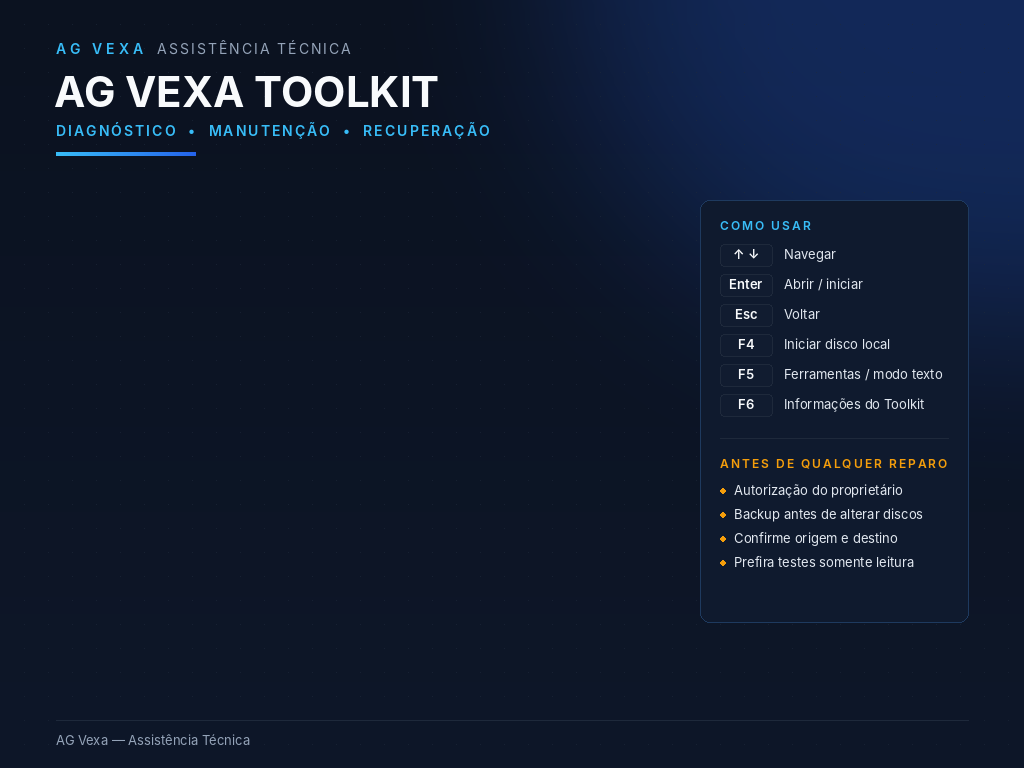
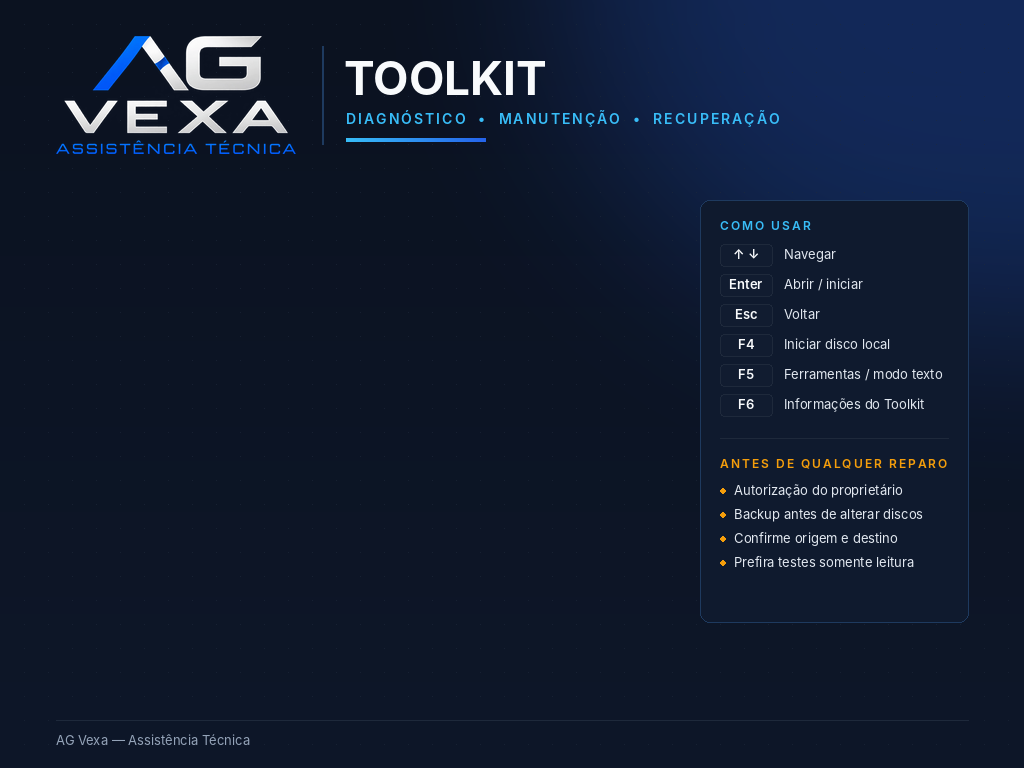
Integra a logomarca oficial da AG Vexa
- branding/logo/agvexa-logo.png: logo oficial fornecida pelo proprietário
  (PNG com fundo transparente, recortada)
- Fundo do tema do boot e papéis de parede passam a usar a logo ao lado
  do título "TOOLKIT" (gerador volta à identificação tipográfica se a
  logo não existir)
- Relatório HTML do Windows Optimizer embute a logo (arquivo local)
- Remove o placeholder da logo, a regra do .gitignore e a pendência
  correspondente na documentação

Claude-Session: https://claude.ai/code/session_01GVKuAxjS2TvyxeSkTN3wQ3

Changed region(s): [[0.0312, 0.0312, 0.5938, 0.2188], [0.6562, 0.125, 0.75, 0.1562]]

diff --git a/agvexa-toolkit/scripts/build-theme-assets.py b/agvexa-toolkit/scripts/build-theme-assets.py
@@ -36,7 +36,7 @@ VERSION = open(os.path.join(ROOT, "VERSION"), encoding="utf-8").read().strip()
 
 THEME = os.path.join(ROOT, "ventoy", "themes", "agvexa")
 THEME_LITE = os.path.join(ROOT, "ventoy", "themes", "agvexa-lite")
-OFFICIAL_LOGO = os.path.join(ROOT, "branding", "logo-placeholder", "logo-oficial.png")
+OFFICIAL_LOGO = os.path.join(ROOT, "branding", "logo", "agvexa-logo.png")
 
 # Categorias do menu: classe -> ícone. Mantido em sincronia com
 # catalog/categorias.json (verificado pelos testes).
@@ -122,29 +122,41 @@ def background(w, h, with_panel=True):
     d = ImageDraw.Draw(img)
     m = int(56 * s)
 
-    # cabeçalho: identificação tipográfica (ou logo oficial, se fornecida)
-    y = int(40 * s)
+    # cabeçalho: logo oficial (branding/logo) + nome do produto; sem a logo,
+    # usa identificação tipográfica temporária
+    sub_font = font("semibold", int(14 * s))
+    subtitle = "DIAGNÓSTICO  •  MANUTENÇÃO  •  RECUPERAÇÃO"
     if os.path.exists(OFFICIAL_LOGO):
         logo = Image.open(OFFICIAL_LOGO).convert("RGBA")
-        lh = int(28 * s)
+        lh = int(118 * s)
         logo = logo.resize((max(1, int(logo.width * lh / logo.height)), lh), Image.LANCZOS)
-        img.alpha_composite(logo, (m, y))
+        ly = int(36 * s)
+        img.alpha_composite(logo, (m, ly))
         d = ImageDraw.Draw(img)
+        dx = m + logo.width + int(26 * s)
+        d.line((dx, ly + int(10 * s), dx, ly + lh - int(10 * s)), fill=rgb(PALETTE["borda"]), width=max(1, int(2 * s)))
+        x = dx + int(24 * s)
+        y = ly + int(14 * s)
+        d.text((x - int(2 * s), y), "TOOLKIT", font=font("bold", int(46 * s)), fill=rgb(PALETTE["texto_principal"]))
+        y += int(60 * s)
+        spaced(d, (x, y), subtitle, sub_font, rgb(PALETTE["azul_destaque"]), int(2 * s))
+        y += int(28 * s)
     else:
+        x = m
+        y = int(40 * s)
         spaced(d, (m, y), "AG VEXA", font("semibold", int(14 * s)), rgb(PALETTE["azul_destaque"]), int(4 * s))
         spaced(d, (m + text_width(d, "AG VEXA", font("semibold", int(14 * s)), int(4 * s)) + int(14 * s), y),
                "ASSISTÊNCIA TÉCNICA", font("regular", int(14 * s)), rgb(PALETTE["texto_secundario"]), int(2 * s))
-    y += int(26 * s)
-    d.text((m - int(2 * s), y), "AG VEXA TOOLKIT", font=font("bold", int(42 * s)), fill=rgb(PALETTE["texto_principal"]))
-    y += int(56 * s)
-    spaced(d, (m, y), "DIAGNÓSTICO  •  MANUTENÇÃO  •  RECUPERAÇÃO", font("semibold", int(14 * s)),
-           rgb(PALETTE["azul_destaque"]), int(2 * s))
-    y += int(30 * s)
+        y += int(26 * s)
+        d.text((m - int(2 * s), y), "AG VEXA TOOLKIT", font=font("bold", int(42 * s)), fill=rgb(PALETTE["texto_principal"]))
+        y += int(56 * s)
+        spaced(d, (m, y), subtitle, sub_font, rgb(PALETTE["azul_destaque"]), int(2 * s))
+        y += int(30 * s)
     # filete de destaque em degradê
     for i in range(int(140 * s)):
         t = i / (140 * s)
         c = tuple(int(rgb(PALETTE["azul_destaque"])[k] * (1 - t) + rgb(PALETTE["azul_secundario"])[k] * t) for k in range(3))
-        d.line((m + i, y, m + i, y + max(2, int(3 * s))), fill=c + (255,))
+        d.line((x + i, y, x + i, y + max(2, int(3 * s))), fill=c + (255,))
 
     if with_panel:
         # painel "Como usar" à direita do menu

diff --git a/agvexa-toolkit/scripts/lib/agvexa.py b/agvexa-toolkit/scripts/lib/agvexa.py
@@ -923,7 +923,7 @@ REQUIRED_PATHS = [
     "docs/manutencao.md", "docs/relatorio-de-validacao.md", "docs/relatorio-de-seguranca.md",
     "docs/procedimentos-de-atendimento.md", "docs/licencas.md", "docs/plano-de-testes-boot.md",
     "docs/windows-optimizer.md",
-    "branding/palette.json", "branding/fontes-e-licencas.md", "branding/logo-placeholder/LEIA-ME.md",
+    "branding/palette.json", "branding/fontes-e-licencas.md", "branding/logo/LEIA-ME.md", "branding/logo/agvexa-logo.png",
     "ventoy/ventoy.json", "ventoy/ventoy_grub.cfg",
     "ventoy/themes/agvexa/theme.txt", "ventoy/themes/agvexa-lite/theme.txt",
     "catalog/categorias.json", "catalog/ferramentas.yaml", "catalog/isos-manifest.example.json",

diff --git a/agvexa-toolkit/PROGRESSO.md b/agvexa-toolkit/PROGRESSO.md
@@ -32,12 +32,11 @@ Arquivo para retomar o desenvolvimento em outra conversa. Atualize a cada fase.
 
 ## Pendências que exigem decisão do proprietário
 
-1. **Logo oficial**: fornecer arquivo (ver `branding/logo-placeholder/LEIA-ME.md`).
-2. **Instalar ferramentas de teste** no servidor (qemu-system-x86, ovmf, shellcheck, powershell) ou usar outro computador para testes de VM.
-3. **Windows 10** na mídia: incluir ou não (fim do suporte regular em 14/10/2025).
-4. **Secure Boot em clientes**: política preferida (desativar temporariamente × registrar chave do Ventoy com autorização do cliente).
-5. **Licença dos arquivos próprios** (documentação, temas, scripts).
-6. **Integração MAPOS**: se/quando (`docs/integracao-mapos-futura.md`).
+1. **Instalar ferramentas de teste** no servidor (qemu-system-x86, ovmf, shellcheck, powershell) ou usar outro computador para testes de VM.
+2. **Windows 10** na mídia: incluir ou não (fim do suporte regular em 14/10/2025).
+3. **Secure Boot em clientes**: política preferida (desativar temporariamente × registrar chave do Ventoy com autorização do cliente).
+4. **Licença dos arquivos próprios** (documentação, temas, scripts).
+5. **Integração MAPOS**: se/quando (`docs/integracao-mapos-futura.md`).
 
 ## Decisões já tomadas (não reabrir sem motivo)
 
@@ -49,3 +48,4 @@ Arquivo para retomar o desenvolvimento em outra conversa. Atualize a cada fase.
 ## Histórico
 
 - 2026-10-14 — 0.1.0-rc1: implementação inicial das Fases A–E e do Windows Optimizer.
+- 2026-10-15 — logomarca oficial integrada ao tema do boot, papéis de parede e relatório do Optimizer.

diff --git a/agvexa-toolkit/branding/fontes-e-licencas.md b/agvexa-toolkit/branding/fontes-e-licencas.md
@@ -5,6 +5,7 @@
 | Inter (Regular, SemiBold, Bold) | https://github.com/rsms/inter | SIL Open Font License 1.1 — `branding/fonts/LICENSE-Inter-OFL-1.1.txt` | textos renderizados nas imagens de fundo (PNG) |
 | DejaVu Sans Mono | https://dejavu-fonts.github.io/ | Bitstream Vera + domínio público — `branding/fonts/LICENSE-DejaVu.txt` | apenas nas pré-visualizações (`docs/previews`) |
 | Fonte do menu no boot | `unicode.pf2` distribuída com o Ventoy (GNU Unifont, "Unknown Regular 16") | licença do Ventoy/GNU Unifont | texto do menu (o toolkit não redistribui; já vem no Ventoy) |
+| Logomarca oficial AG Vexa | `branding/logo/agvexa-logo.png`, fornecida pelo proprietário | propriedade da AG Vexa | fundo do tema, papéis de parede, relatório do Optimizer |
 | Fundos, molduras, ícones | criados para este projeto por `scripts/build-theme-assets.py` | propriedade da AG Vexa (licença a definir pelo proprietário) | tema e branding |
 
 As fontes ficam versionadas em `branding/fonts/` para que as imagens possam

diff --git a/agvexa-toolkit/branding/logo/LEIA-ME.md b/agvexa-toolkit/branding/logo/LEIA-ME.md
@@ -1,0 +1,21 @@
+# Logomarca oficial da AG Vexa
+
+`agvexa-logo.png` é a logomarca oficial fornecida pelo proprietário
+(PNG RGBA com fundo transparente, recortada nas bordas, 1352×662 px).
+Versão para fundo escuro: letras claras com o "A" e a linha
+"ASSISTÊNCIA TÉCNICA" em azul.
+
+Onde é usada:
+
+| Uso | Como |
+|---|---|
+| Fundo do tema do boot (`ventoy/themes/agvexa/background.png`) | composta por `scripts/build-theme-assets.py` (altura ~118 px em 1024×768) |
+| Papéis de parede (`branding/backgrounds/`) | idem |
+| Relatório HTML do Windows Optimizer | cópia reduzida em `windows-optimizer/assets/agvexa-logo.png`, embutida no HTML |
+
+Para trocar a logo: substitua `agvexa-logo.png` (mantenha fundo transparente
+e versão clara), rode `python3 scripts/build-theme-assets.py` e `tests/run-all.sh`.
+Sem o arquivo, o gerador volta para a identificação tipográfica.
+
+A logomarca é propriedade da AG Vexa e não está coberta pelas licenças das
+fontes ou das ferramentas de terceiros.

diff --git a/agvexa-toolkit/docs/riscos-e-limitacoes.md b/agvexa-toolkit/docs/riscos-e-limitacoes.md
@@ -12,7 +12,6 @@
 | L6 | Modo texto (CLI) não mostra acentos | nomes com "ç/ã" ficam estranhos | `--ascii-menu` no staging |
 | L7 | Nenhuma ISO real foi baixada | catálogo sem SHA‑256 preenchido | processo em `ferramentas.md` |
 | L8 | Windows Optimizer não executado em Windows | nenhuma validação funcional | autoteste e Pester prontos para o laboratório |
-| L9 | Logomarca oficial ausente | identificação tipográfica temporária | `branding/logo-placeholder/LEIA-ME.md` |
 | L10 | QEMU/OVMF/pwsh/shellcheck ausentes no ambiente | testes correspondentes "Não testado" | instalar só com autorização |
 | L11 | Desenvolvimento feito em contêiner de nuvem (Ubuntu 24.04), não no servidor Ubuntu 26.04 | ambiente diferente do alvo | `scripts/preflight.sh` no servidor antes de usar |
 

diff --git a/agvexa-toolkit/CHANGELOG.md b/agvexa-toolkit/CHANGELOG.md
@@ -2,6 +2,12 @@
 
 Formato baseado em "Keep a Changelog". Versões seguem SemVer.
 
+## [Não lançado]
+
+### Adicionado
+- Logomarca oficial da AG Vexa (`branding/logo/agvexa-logo.png`) no fundo do tema do boot,
+  nos papéis de parede e no relatório HTML do Windows Optimizer.
+
 ## [0.1.0-rc1] — 2026-10-14 — candidata para homologação
 
 ### Adicionado
@@ -21,5 +27,5 @@ Formato baseado em "Keep a Changelog". Versões seguem SemVer.
   plano de testes, relatório de validação; modelos de relatório.
 
 ### Pendente
-- Testes de boot em VM e hardware físico; testes do Optimizer em Windows; logo oficial;
+- Testes de boot em VM e hardware físico; testes do Optimizer em Windows;
   download e verificação das ISOs reais; instalação no HD (Fase F).

diff --git a/agvexa-toolkit/README.md b/agvexa-toolkit/README.md
@@ -53,7 +53,7 @@ conferido entram por padrão.
 | Pasta | Conteúdo |
 |---|---|
 | `docs/` | arquitetura, instalação segura, manual do técnico, procedimentos, ferramentas, compatibilidade, riscos, manutenção, licenças, segurança, validação, Windows Optimizer |
-| `branding/` | paleta, fundos, ícones, fontes livres e licenças, local da logo oficial |
+| `branding/` | paleta, fundos, ícones, fontes livres e licenças, logomarca oficial |
 | `ventoy/` | `ventoy.json` (gerado), `ventoy_grub.cfg` (F6), temas `agvexa` e `agvexa-lite` |
 | `catalog/` | categorias do menu, catálogo de ferramentas, manifesto de ISOs (exemplo) |
 | `media-layout/` | arquivos da raiz do HD (LEIA-ME, `.ventoyignore`) |

diff --git a/agvexa-toolkit/windows-optimizer/LEIA-ME.md b/agvexa-toolkit/windows-optimizer/LEIA-ME.md
@@ -21,6 +21,7 @@ powershell.exe -NoProfile -ExecutionPolicy Bypass -File .\AGVexa-Optimizer.ps1
 | `New-AGVexaReport.ps1` | relatório técnico local (HTML/Markdown) |
 | `lib/AGVexa.Common.psm1` | funções comuns (sessão, backup, ajustes) |
 | `profiles/ajustes.json` | catálogo de ajustes e perfis |
+| `assets/agvexa-logo.png` | logomarca usada no relatório HTML |
 | `tests/` | autoteste sem dependências e testes Pester 5 |
 
 Manual completo: `AGVexa/docs/windows-optimizer.md` (no HD) ou `docs/windows-optimizer.md` (no projeto).
